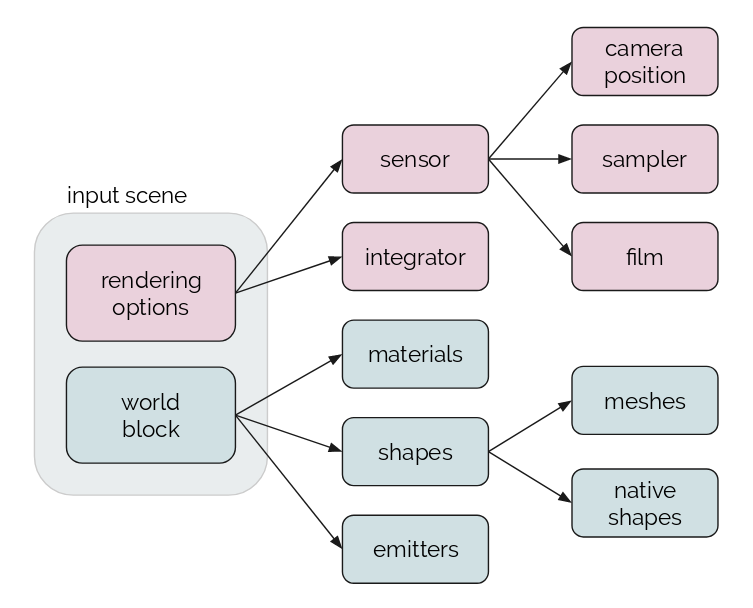
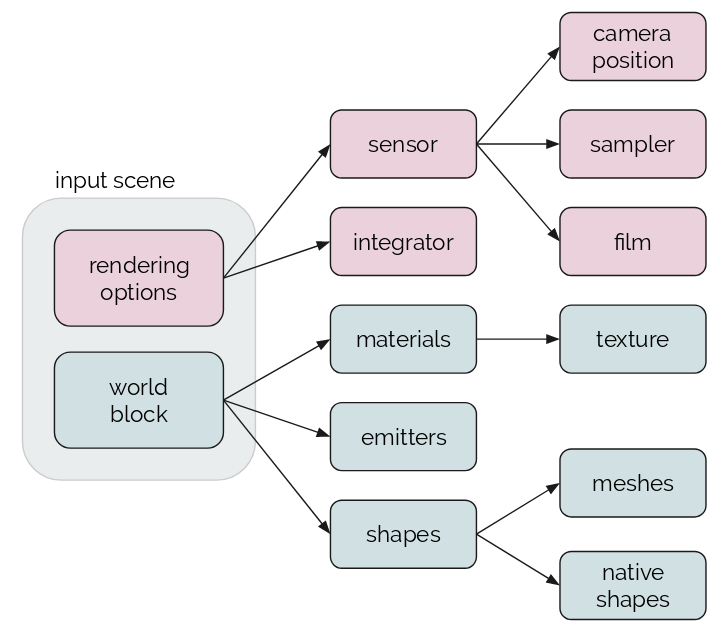
rewrite red sections in section 3

diff --git a/sibgrapi_2018/sections/4_results.tex b/sibgrapi_2018/sections/4_results.tex
@@ -1,24 +1,13 @@
 \section{Results and Analysis}
-% We chose to validate our PoC using a few scenes from Bitterli's 32 resources 
-% \cite{resources16}: \textit{The Wooden Staircase} and \textit{Utah Teapot}. 
-% These two were chosen for providing a collection of varied directives.
-
-% \textit{The Wooden Staircase} makes use of image-based textures, area lighting 
-% and has a vast array of different kinds of materials, including bumpmaps. The 
-% scene uses 774 external 3D meshes, which makes manual conversion hard and time consuming, as well as primitive directives, such as rectangles.
-% 
-% The \textit{Utah Teapot} is a much simpler scene, with two materials, one primitive  and one 
-% external 3D mesh. It does, however, use a primitive checkerboard texture and 
-% environment mapping.
+We validated our system's conversion using scenes from Bitterli's 32 resources 
+\cite{resources16}. We chose scenes that provided a wide variety of directives 
+in order to cover most commonly used directives. These scenes include: different 
+types of materials and bumpmaps; 3D meshes and primitive shapes; image and 
+primitive textures; area and environment lighting. 
 
 The scenes were rendered using Mitsuba 0.5.0, PBRT v3 and LuxRender v1.6 on 
 %a UNIX system running
 Ubuntu 14.04 LTS. All scenes were rendered using over 5,000 samples per pixel. 
-
-% We rendered the original scenes for Mitsuba, PBRT and LuxRender. After that, we 
-% rendered the scenes converted from these input files by our system. The original 
-% scenes for Mitsuba and PBRT were the ones provided in Bitterli's resources, 
-% while the LuxRender scenes were generated using our system.
 
 \begin{figure*}
 \centering
@@ -68,17 +57,17 @@ from converted scenes for the renderers}
 %\label{fig:coffee}
 %\end{figure*}
 
-
-
-
-The results in Figure \ref{fig:staircase} differ a little in coloring from 
-renderer to renderer due to the very nature of Monte Carlo Rendering - sampling 
-can vary between scenes. The results obtained from our system were very similar 
-to the original images.
-
-
-
-\red{Obtaining the results in Figure \ref{fig:teapot} were particularly challenging}
+% \begin{figure*}
+% \centering
+% \includegraphics[width=2in]{figs/4_results/cornell-box/1_from_mitsuba.png}
+% \includegraphics[width=2in]{figs/4_results/cornell-box/2_to_pbrt.png}
+% \includegraphics[width=2in]{figs/4_results/cornell-box/3_to_lux.png}
+% \caption{Automatic conversion obtained with our system for \textit{Cornell Box}
+% scene originally modeled for Mitsuba. Rendering produced by Mitsuba (left).
+% Rendering produced by PBRT v3 (center) and LuxRender (right),
+% from converted scenes for the renderers}
+% \label{fig:coffee}
+% \end{figure*}
 
 \subsection{Limitations}
 In order to minimize scope issues, we restricted the number of directives 
@@ -89,11 +78,10 @@ incorporated. That was the case, for instance, for Mitsuba-only materials like
 
 We chose not to interpret and convert hair or participating media (volumes, such 
 as water or fog) for this PoC. We also did not convert the color for metal 
-materials in LuxRender given the issues discussed in \ref{systemarch}.
+materials in LuxRender given the issues discussed in \ref{systemarch}. The 
+latter can be observed in Figure \ref{fig:coffee} - we can see the lack of a 
+copper color on the lamp in the image rendered by LuxRender.
 
-We chose to limit the interpreted global emitters to the most commonly used 
-ones: environment mapping, sun, sky, distant lighting, infinite. Therefore, spot 
-and \red{point lights were not included in our PoC. [Why not?]}
 
 
 

diff --git a/sibgrapi_2018/sections/3_system_architecture.tex b/sibgrapi_2018/sections/3_system_architecture.tex
@@ -89,7 +89,7 @@ The \textbf{shape} directive is represented in a structure with: a type (cube,
 sphere, ...), an optional area emitter, an optional material reference, an
 optional transformation matrix and a list of parameters.
 
-\red{The \textbf{texture} directive is represented in a structure with: a type, an id and a list of parameters. [Not shown in Fig. 2]}
+The \textbf{texture} directive is represented in a structure with: a type, an id and a list of parameters.
 
 The \textbf{global emitter} directive is represented in a structure with: a
 type, an optional transformation matrix and a list of parameters.
@@ -117,10 +117,16 @@ two, we had to mirror the x-axis of all camera matrix transformations. This was
 also the case for environment mapping positioning and object-world
 transformations.
 
-\red{Mitsuba also has its camera transformation matrix specified as a camera-to-world
- transformation, while PBRT and LuxRender do not. Therefore, when converting the
-camera look-at matrix between these renderers, we had to compute the inverse
-transpose of the specified matrix. }
+\green{Furthermore, Mitsuba scene files have their camera position specified as a 
+world-to-camera transformation matrix, while PBRT and LuxRender scene files have 
+theirs as a camera-to-world transformation matrix. Therefore, converting the 
+camera positioning between Mitsuba and the other two renderers means we have to 
+compute the inverse transpose of this transformation matrix.}
+
+% \red{Mitsuba also has its camera transformation matrix specified as a camera-to-world
+%  transformation, while PBRT and LuxRender do not. Therefore, when converting the
+% camera look-at matrix between these renderers, we had to compute the inverse
+% transpose of the specified matrix. }
 
 % \subsubsection{Converting Materials}
 \textit{2. Converting Materials} \\
@@ -187,13 +193,20 @@ solved this issue by interacting with the user whenever an environment map
 directive is found - we ask the user whether (s)he would like to use a sky
 emitter or not.
 
-Another sensitive point to consider is converting environment mapping indexation. In PBRT and LuxRender, environment maps' uv coordinates are indexed using spherical coordinates (\textit{theta} and \textit{phi}). Meanwhile, Mitsuba uses Cartesian coordinates (\textit{x}, \textit{y} and \textit{z}), as shown in \ref{fig:mitdocemitter}. 
+Another sensitive point to consider is converting environment mapping 
+indexation. In PBRT and LuxRender, environment maps' uv coordinates are indexed 
+using spherical coordinates (\textit{theta} and \textit{phi}). Meanwhile, 
+Mitsuba uses Cartesian coordinates (\textit{x}, \textit{y} and \textit{z}), as 
+shown in \ref{fig:mitdocemitter}. 
 
 \begin{figure}[h]
 \centering
-\includegraphics[width=2.7in]{figs/3_system_architecture/mitdocemitter.png}
-\caption{Illustration of the coordinate conventions used by Mitsuba for indexing environment map uv coordinates.}
+\includegraphics[width=1.4in]{figs/3_system_architecture/spherical_coordinates.png}
+\includegraphics[width=2.2in]{figs/3_system_architecture/mitdocemitter.png}
+\caption{Illustration of the coordinate conventions used by PBRT and LuxRender 
+(top) and by Mitsuba (bottom) for indexing environment map uv coordinates.}
 \label{fig:mitdocemitter}
 \end{figure}
 
-\red{This essentialy means that} <>
+This conversion can be done by applying a transformation matrix on the 
+environment map, rotating the x, y and z axes to match the output renderer. 

diff --git a/sibgrapi_2018/example.tex b/sibgrapi_2018/example.tex
@@ -43,6 +43,7 @@
 \usepackage{xcolor}
 
 \newcommand \red[1] {\textcolor{red}{#1}}
+\newcommand \green[1] {\textcolor{green}{#1}}
 \newcommand \eg {{\it e.g.}}
 \usepackage{caption}
 
